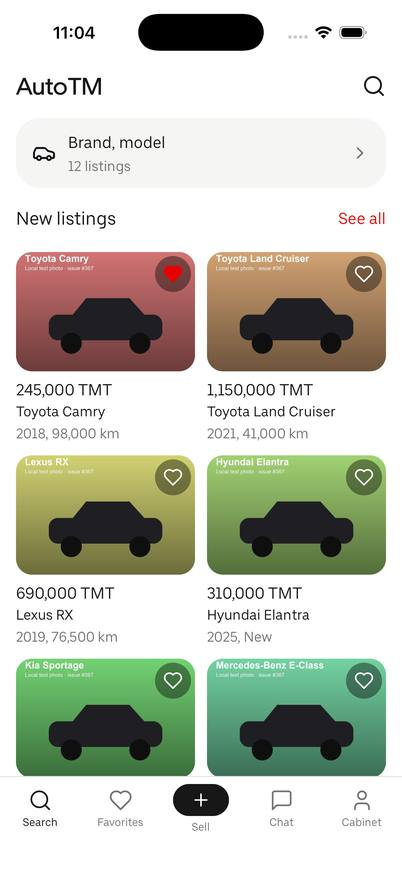
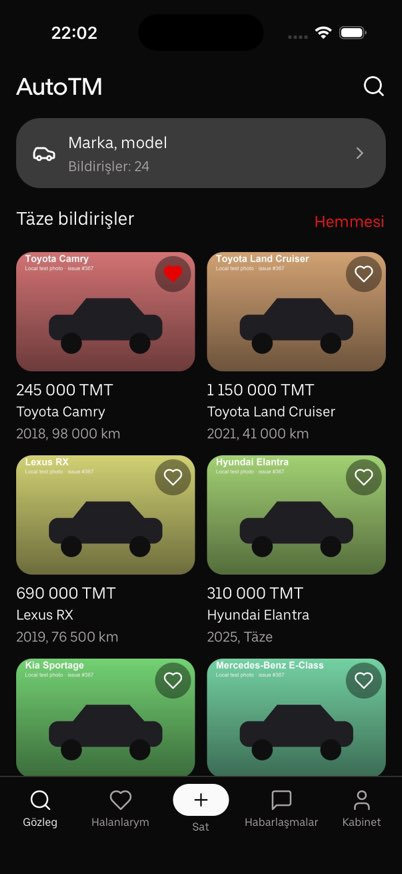
docs(evidence): recheck Home and the page-2 ♡ replay on the simulator at f503fc8

diff --git a/docs/prd/ops/evidence/issue-367/README.md b/docs/prd/ops/evidence/issue-367/README.md
@@ -8,15 +8,16 @@ tab stack.
 | Field | Value |
 |---|---|
 | Device | iOS Simulator, iPhone 17 Pro (402 × 874 pt), iOS 26.2 |
-| Build | Development build `tm.auto.app` on Metro, branch `agent/issue-367` at `f63cf49` |
-| Backend | Local API (`apps/api`, port 3006) on an isolated local database seeded with the catalog and 12 test Listings with generated placeholder photos |
+| Build | Development build `tm.auto.app` on Metro, branch `agent/issue-367`. The loading, offline, See all, 🔍 and Brand, model screens are from `f63cf49`; Home, loaded and the page-2 ♡ flow were rechecked at `f503fc8`, after the review fixes |
+| Backend | Local API (`apps/api`, port 3006, `SMS_DRIVER=mock`) on an isolated local database seeded with the catalog and 12 test Listings with generated placeholder photos. For the `f503fc8` recheck the 12 were copied 30 days older, so the feed has 24 Listings and a second page |
 | Date | 2026-09-28 |
 
 ## Screens
 
 | State | Screenshot | What it shows |
 |---|---|---|
-| Home, loaded | [home-loaded.jpg](home-loaded.jpg) | 🔍 in the header, the Brand, model card with the live count (12 listings), New listings with See all, and the two-column grid: price in TMT, "Brand Model", "year, km" or "2025, New". The Toyota Camry ♥ is filled after a signed-out ♡ went through sign-in and the Favorite finished. |
+| Home, loaded | [home-loaded.jpg](home-loaded.jpg) | At `f503fc8`: 🔍 in the header (RNR `Button`), the Brand, model card with the live count (24 listings), New listings with See all, and the two-column grid: price in TMT, "Brand Model", "year, km" or "2025, New". The Toyota Camry ♥ is the local seller's saved Favorite. |
+| Page-2 ♡ after sign-in | [home-page2-favorite.jpg](home-page2-favorite.jpg) | At `f503fc8`: the Lexus LX, the last Listing on the feed's second page, shows a filled ♥ after a signed-out ♡ on it went through sign-in. |
 | Home, loading | [home-loading.jpg](home-loading.jpg) | The count skeleton and three rows of grid-card skeletons in the card's shape, captured with the API process paused. |
 | Home, offline | [home-offline.jpg](home-offline.jpg) | The existing `FeedError` state with Retry, captured with the API stopped. |
 | See all | [results-interim.jpg](results-interim.jpg) | The interim Results route pushed inside the Search tab, with the tab bar visible. |
@@ -25,7 +26,9 @@ tab stack.
 
 ## Flows checked on the simulator
 
-- Signed out, ♡ on the Toyota Camry opened phone sign-in. After the code was confirmed, the app returned to Home, fetched the feed with the session, and sent `POST /listings/:id/favorite` (201); the card showed a filled ♥ and the Listing appeared in Favorites.
+- At `f503fc8`, signed out, ♡ on the Lexus LX on the feed's second page opened phone sign-in with a new local buyer. After the code was confirmed, the app returned to Home and the API log shows, in order: `GET /listings?limit=20` with the session (first page only), `POST /listings/8ef40c49…/favorite` (201) for the page-2 Listing, then one more `GET /listings?limit=20` from the refetch after the save. Scrolling down loaded page 2 with a filled ♥ on the Lexus LX.
+- At `f503fc8`, launching the app with the seller's stored access token past its lifetime sent `POST /auth/refresh` (201) before the first authenticated `GET /listings`, so the feed arrived with the seller's ♥.
+- At `f63cf49`, signed out, ♡ on the Toyota Camry opened phone sign-in. After the code was confirmed, the app returned to Home, fetched the feed with the session, and sent `POST /listings/:id/favorite` (201); the card showed a filled ♥ and the Listing appeared in Favorites.
 - Signed in, ♡ on a saved card sent `DELETE /listings/:id/favorite` (200) and the heart returned to an outline.
 - See all opened Results inside the Search tab. Switching to Favorites and back kept Results; tapping the already active Search tab returned to Home.
 
